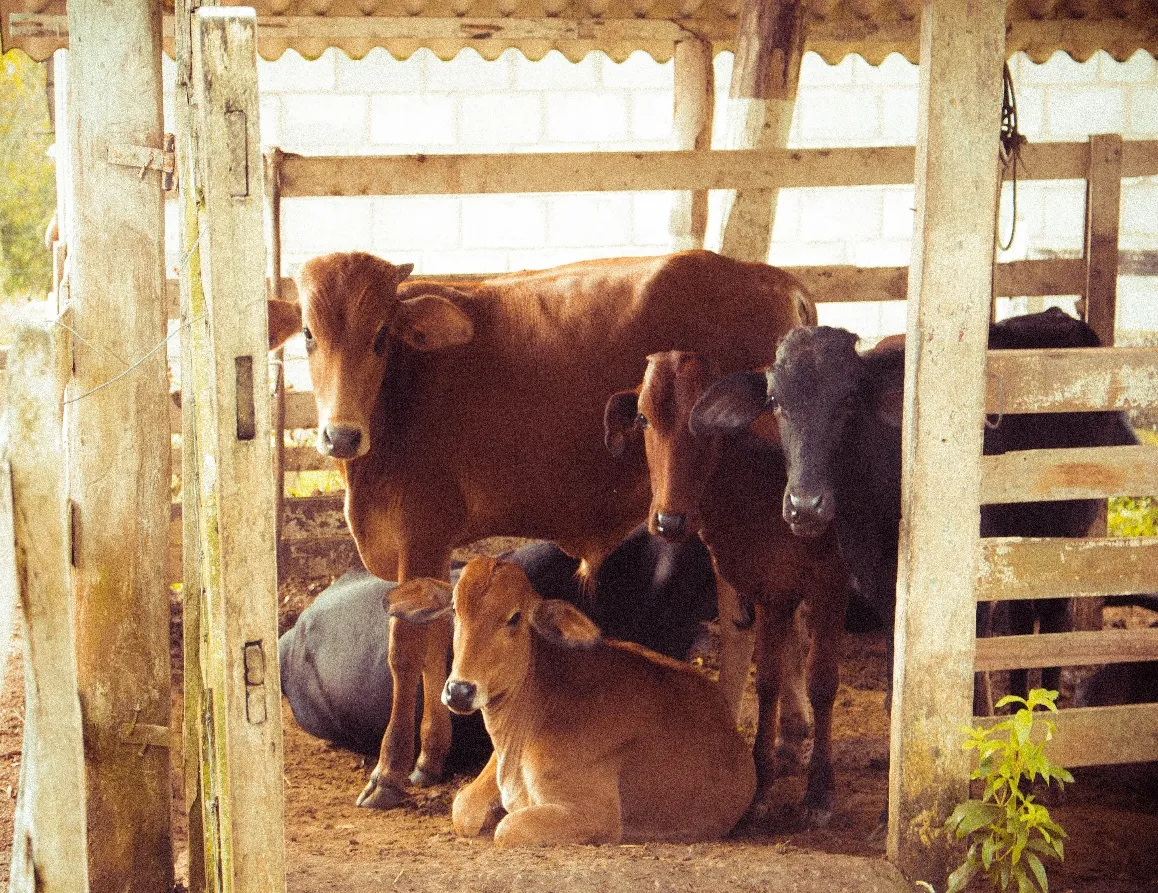
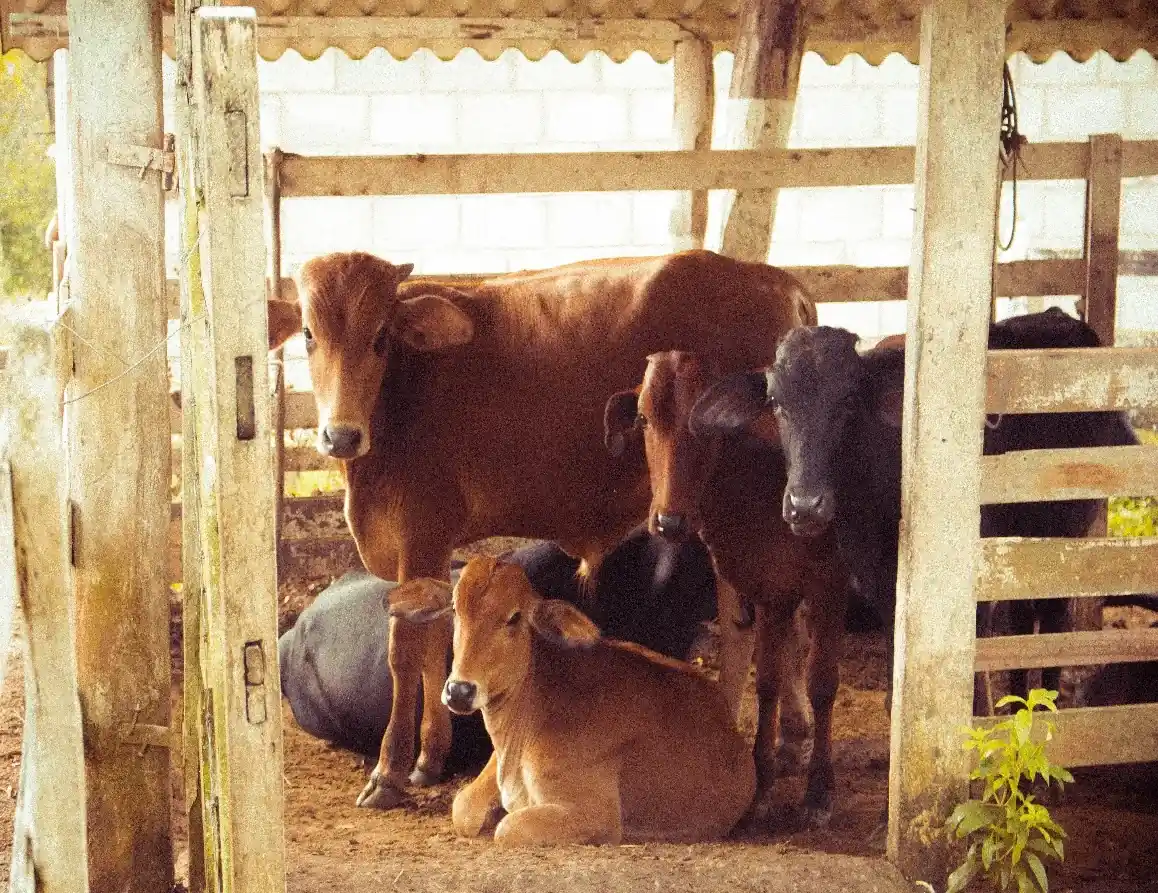
s

diff --git a/src/components/scenes/SceneThreshold/HeroContent.tsx b/src/components/scenes/SceneThreshold/HeroContent.tsx
@@ -48,29 +48,27 @@ export function HeroContent() {
       gsap.to(root.querySelectorAll("[data-hero-fade]"), {
         autoAlpha: 1,
         y: 0,
-        duration: 0.7,
+        duration: 0.5,
         ease: "power3.out",
-        delay: 0.3,
-        stagger: 0.12,
+        stagger: 0.1,
       });
 
       // one sheen of light sweeps the headline as the second line resolves
       gsap.to(root.querySelectorAll("[data-sheen]"), {
         keyframes: [
-          { autoAlpha: 0.5, duration: 0.2 },
-          { xPercent: 140, duration: 1.1, ease: "power2.inOut" },
-          { autoAlpha: 0, duration: 0.3 },
+          { autoAlpha: 0.5, duration: 0.1 },
+          { xPercent: 140, duration: 0.4, ease: "power2.inOut" },
+          { autoAlpha: 0, duration: 0.1 },
         ],
-        delay: 1.35,
       });
 
       // the CTA settles last, once the statement has landed
       gsap.to(root.querySelectorAll("[data-hero-cta]"), {
         autoAlpha: 1,
         y: 0,
-        duration: 0.8,
+        duration: 0.5,
         ease: "power3.out",
-        delay: 1.9,
+        delay: 0.1,
       });
     }, root);
 
@@ -107,7 +105,8 @@ export function HeroContent() {
             text="Empowering Animal Health And Productivity"
             as="span"
             play={revealing}
-            delay={0.5}
+            delay={0}
+            duration={0.5}
             stagger={0.06}
             className="justify-start text-[9.5vw] leading-[1.02] tracking-[-0.015em] md:text-[5.4vw] xl:text-[64px]"
           />
@@ -115,7 +114,8 @@ export function HeroContent() {
             text="Through Innovative Feed Additives"
             as="span"
             play={revealing}
-            delay={1.15}
+            delay={0.1}
+            duration={0.5}
             stagger={0.06}
             className="mt-2 justify-start text-[9.5vw] leading-[1.02] tracking-[-0.015em] text-primary-700 md:text-[5.4vw] xl:text-[64px]"
           />

diff --git a/src/components/primitives/RevealText.tsx b/src/components/primitives/RevealText.tsx
@@ -3,7 +3,7 @@
 import { useRef, type ElementType } from "react";
 import { useIsomorphicLayoutEffect } from "@/hooks/useIsomorphicLayoutEffect";
 import { usePrefersReducedMotion } from "@/hooks/usePrefersReducedMotion";
-import { gsap } from "@/lib/gsap";
+import { gsap } from "@/lib/scroll-trigger";
 import { EASE } from "@/lib/motion";
 import { cn } from "@/lib/utils";
 
@@ -29,6 +29,8 @@ type RevealTextProps = {
   delay?: number;
   trigger?: "mount" | "scroll";
   stagger?: number;
+  /** tween length in seconds (default 0.9) */
+  duration?: number;
   /** controlled gate - when provided, reveal waits until this is true */
   play?: boolean;
 };
@@ -39,6 +41,7 @@ export function RevealText({
   className,
   delay = 0,
   trigger = "mount",
+  duration = 0.9,
   play,
 }: RevealTextProps) {
   const ref = useRef<HTMLElement>(null);
@@ -53,7 +56,7 @@ export function RevealText({
 
     const ctx = gsap.context(() => {
       gsap.set(line, { opacity: 0, y: 16 });
-      const to = { opacity: 1, y: 0, duration: 0.9, ease: EASE.luxury, delay };
+      const to = { opacity: 1, y: 0, duration, ease: EASE.luxury, delay };
 
       if (controlled) {
         if (play) gsap.to(line, to);
@@ -68,7 +71,7 @@ export function RevealText({
     }, ref);
 
     return () => ctx.revert();
-  }, [reducedMotion, play, controlled, delay, trigger]);
+  }, [reducedMotion, play, controlled, delay, duration, trigger]);
 
   if (reducedMotion) {
     // Same block-level flex container as the animated path so consecutive

diff --git a/src/app/page.tsx b/src/app/page.tsx
@@ -1,6 +1,4 @@
 import dynamic from "next/dynamic";
-import { IntroProvider } from "@/components/providers/IntroProvider";
-import { Preloader } from "@/components/scenes/SceneThreshold/Preloader";
 import { Navbar } from "@/components/navbar/Navbar";
 import { SceneThreshold } from "@/components/scenes/SceneThreshold";
 import { Footer } from "@/components/layout/Footer";
@@ -16,13 +14,12 @@ const SceneCTA = dynamic(() => import("@/components/scenes/SceneCTA").then((m) =
 
 /**
  * Scene 01 - The Threshold. Perfected in isolation.
- * IntroProvider is the shared clock; Preloader gates the reveal; Navbar and the
- * hero scene key their choreography off the same phase.
+ * No preloader or IntroProvider here: the hero paints immediately and Navbar /
+ * hero choreography start on mount (useIntro falls back to "revealing").
  */
 export default function HomePage() {
   return (
-    <IntroProvider>
-      <Preloader />
+    <>
       <Navbar />
       <main>
         <SceneThreshold />
@@ -34,6 +31,6 @@ export default function HomePage() {
         <SceneCTA />
       </main>
       <Footer />
-    </IntroProvider>
+    </>
   );
 }

diff --git a/src/lib/gsap.ts b/src/lib/gsap.ts
@@ -1,18 +1,15 @@
 /**
- * Single GSAP registration point.
+ * Single GSAP entry point.
  *
- * Plugins are registered exactly once, client-side. Every module imports
- * `gsap` and `ScrollTrigger` from here — never from "gsap" directly — so we
- * can never double-register or run plugin code on the server.
+ * Core only — ScrollTrigger lives in "@/lib/scroll-trigger", which components
+ * that scroll-link (ScrollTrigger or a `scrollTrigger:` tween option) import
+ * instead, so the plugin is registered only where it is used.
  */
 import { gsap } from "gsap";
-import { ScrollTrigger } from "gsap/ScrollTrigger";
 
 if (typeof window !== "undefined") {
-  gsap.registerPlugin(ScrollTrigger);
-
   // Global defaults so no scene has to restate the brand rhythm.
   gsap.defaults({ ease: "power3.out", duration: 0.9 });
 }
 
-export { gsap, ScrollTrigger };
+export { gsap };

diff --git a/src/components/providers/IntroProvider.tsx b/src/components/providers/IntroProvider.tsx
@@ -34,6 +34,9 @@ type IntroValue = {
 
 const IntroContext = createContext<IntroValue | null>(null);
 
+/** Pages rendered without an IntroProvider (the homepage) start fully revealed. */
+const NO_INTRO: IntroValue = { phase: "revealing", preloader: "skip", complete: () => {} };
+
 export function IntroProvider({ children }: { children: ReactNode }) {
   const [phase, setPhase] = useState<Phase>("loading");
   const [preloader, setPreloader] = useState<PreloaderMode>("pending");
@@ -69,7 +72,5 @@ export function IntroProvider({ children }: { children: ReactNode }) {
 }
 
 export function useIntro(): IntroValue {
-  const ctx = useContext(IntroContext);
-  if (!ctx) throw new Error("useIntro must be used within IntroProvider");
-  return ctx;
+  return useContext(IntroContext) ?? NO_INTRO;
 }

diff --git a/src/components/products/ProductBrands.tsx b/src/components/products/ProductBrands.tsx
@@ -3,7 +3,7 @@
 import { useRef } from "react";
 import Image from "next/image";
 import { useIsomorphicLayoutEffect } from "@/hooks/useIsomorphicLayoutEffect";
-import { gsap, ScrollTrigger } from "@/lib/gsap";
+import { gsap, ScrollTrigger } from "@/lib/scroll-trigger";
 import { RevealText } from "@/components/primitives/RevealText";
 import { WorldMap } from "@/components/scenes/ScenePartners/WorldMap";
 import { partners } from "@/components/scenes/ScenePartners/partners";

diff --git a/src/components/contact/ContactLocation.tsx b/src/components/contact/ContactLocation.tsx
@@ -2,7 +2,7 @@
 
 import { useEffect, useRef, useState, type ReactNode } from "react";
 import { useIsomorphicLayoutEffect } from "@/hooks/useIsomorphicLayoutEffect";
-import { gsap, ScrollTrigger } from "@/lib/gsap";
+import { gsap, ScrollTrigger } from "@/lib/scroll-trigger";
 import { RevealText } from "@/components/primitives/RevealText";
 import { MapPinIcon, PhoneIcon, ClockIcon, MailIcon, ArrowUpRightIcon } from "./icons";
 import { ContactForm } from "./ContactForm";

diff --git a/src/components/blog/ArticlesGrid.tsx b/src/components/blog/ArticlesGrid.tsx
@@ -2,7 +2,7 @@
 
 import { useMemo, useRef, useState } from "react";
 import { useIsomorphicLayoutEffect } from "@/hooks/useIsomorphicLayoutEffect";
-import { gsap, ScrollTrigger } from "@/lib/gsap";
+import { gsap, ScrollTrigger } from "@/lib/scroll-trigger";
 import { RevealText } from "@/components/primitives/RevealText";
 import { BlogCard } from "@/components/scenes/SceneInsights/BlogCard";
 import { articles, ARTICLE_FILTERS } from "@/components/info-center/articles";

diff --git a/src/components/about/AboutGlobalPresence.tsx b/src/components/about/AboutGlobalPresence.tsx
@@ -2,7 +2,7 @@
 
 import { useRef, type ReactNode } from "react";
 import { useIsomorphicLayoutEffect } from "@/hooks/useIsomorphicLayoutEffect";
-import { gsap, ScrollTrigger } from "@/lib/gsap";
+import { gsap, ScrollTrigger } from "@/lib/scroll-trigger";
 import { RevealText } from "@/components/primitives/RevealText";
 import { GlassCard } from "@/components/scenes/SceneInnovation/GlassCard";
 import { WorldMap } from "@/components/scenes/ScenePartners/WorldMap";

diff --git a/src/components/products/FeaturedSolutions.tsx b/src/components/products/FeaturedSolutions.tsx
@@ -2,7 +2,7 @@
 
 import { useRef, type ReactNode } from "react";
 import { useIsomorphicLayoutEffect } from "@/hooks/useIsomorphicLayoutEffect";
-import { gsap, ScrollTrigger } from "@/lib/gsap";
+import { gsap, ScrollTrigger } from "@/lib/scroll-trigger";
 import { RevealText } from "@/components/primitives/RevealText";
 import { MaskedReveal } from "@/components/primitives/MaskedReveal";
 import { LabPlate } from "@/components/scenes/SceneUnfolding/LabPlate";

diff --git a/src/components/services/ServicesBenefits.tsx b/src/components/services/ServicesBenefits.tsx
@@ -2,7 +2,7 @@
 
 import { useRef, type ReactNode } from "react";
 import { useIsomorphicLayoutEffect } from "@/hooks/useIsomorphicLayoutEffect";
-import { gsap, ScrollTrigger } from "@/lib/gsap";
+import { gsap, ScrollTrigger } from "@/lib/scroll-trigger";
 import { RevealText } from "@/components/primitives/RevealText";
 import { MaskedReveal } from "@/components/primitives/MaskedReveal";
 import { LabPlate } from "@/components/scenes/SceneUnfolding/LabPlate";

diff --git a/src/lib/scroll-trigger.ts b/src/lib/scroll-trigger.ts
@@ -1,0 +1,13 @@
+/**
+ * GSAP + ScrollTrigger. Import from here (instead of "@/lib/gsap") in any
+ * module that uses ScrollTrigger or a `scrollTrigger:` tween option; the plugin
+ * is registered once, client-side, the first time such a module loads.
+ */
+import { ScrollTrigger } from "gsap/ScrollTrigger";
+import { gsap } from "./gsap";
+
+if (typeof window !== "undefined") {
+  gsap.registerPlugin(ScrollTrigger);
+}
+
+export { gsap, ScrollTrigger };
